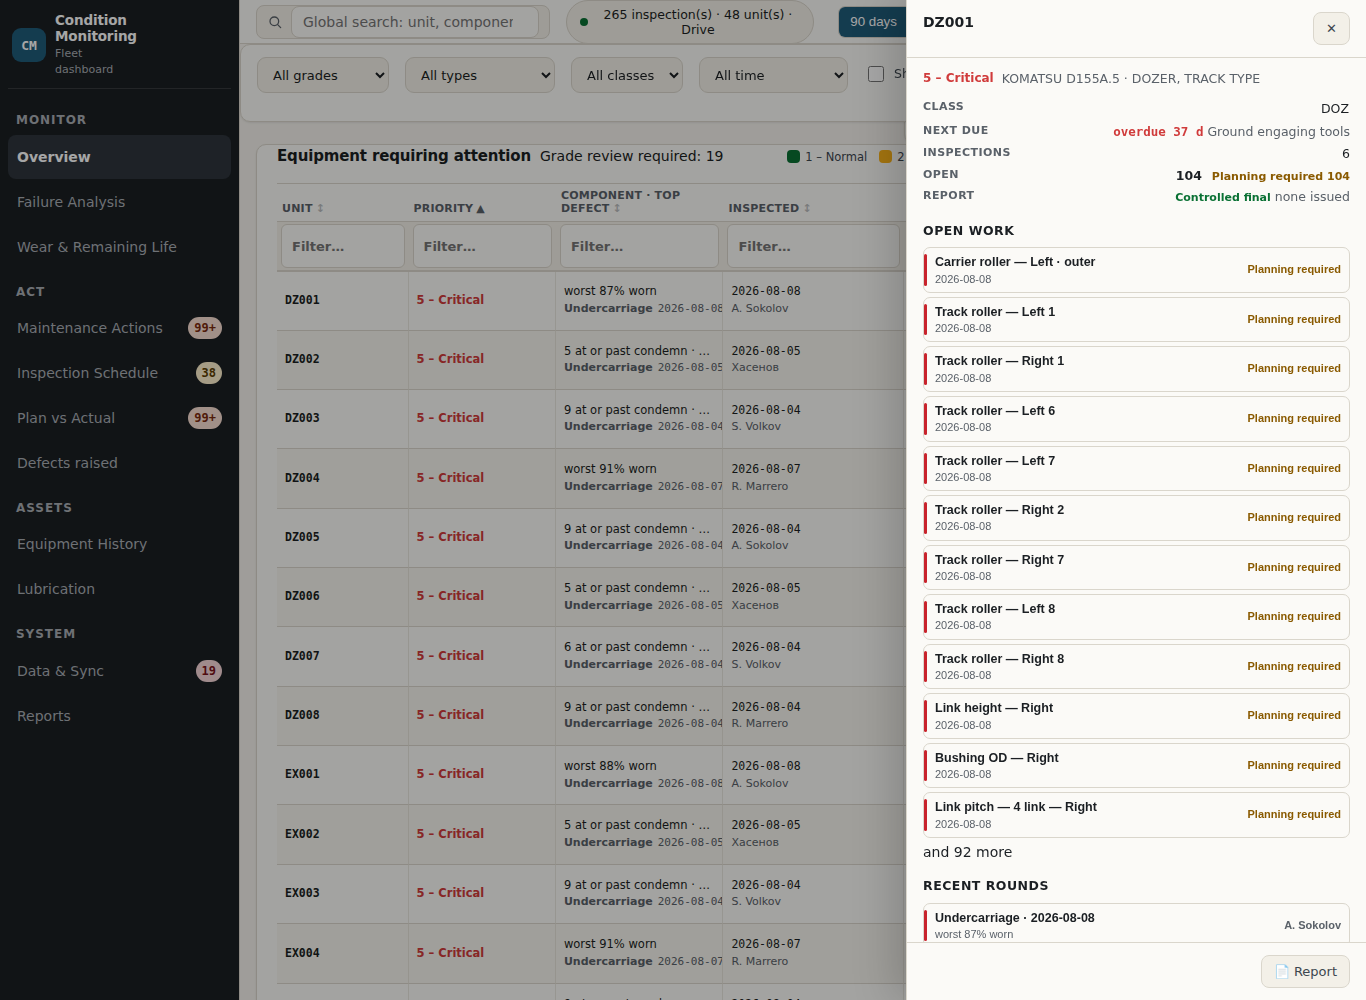
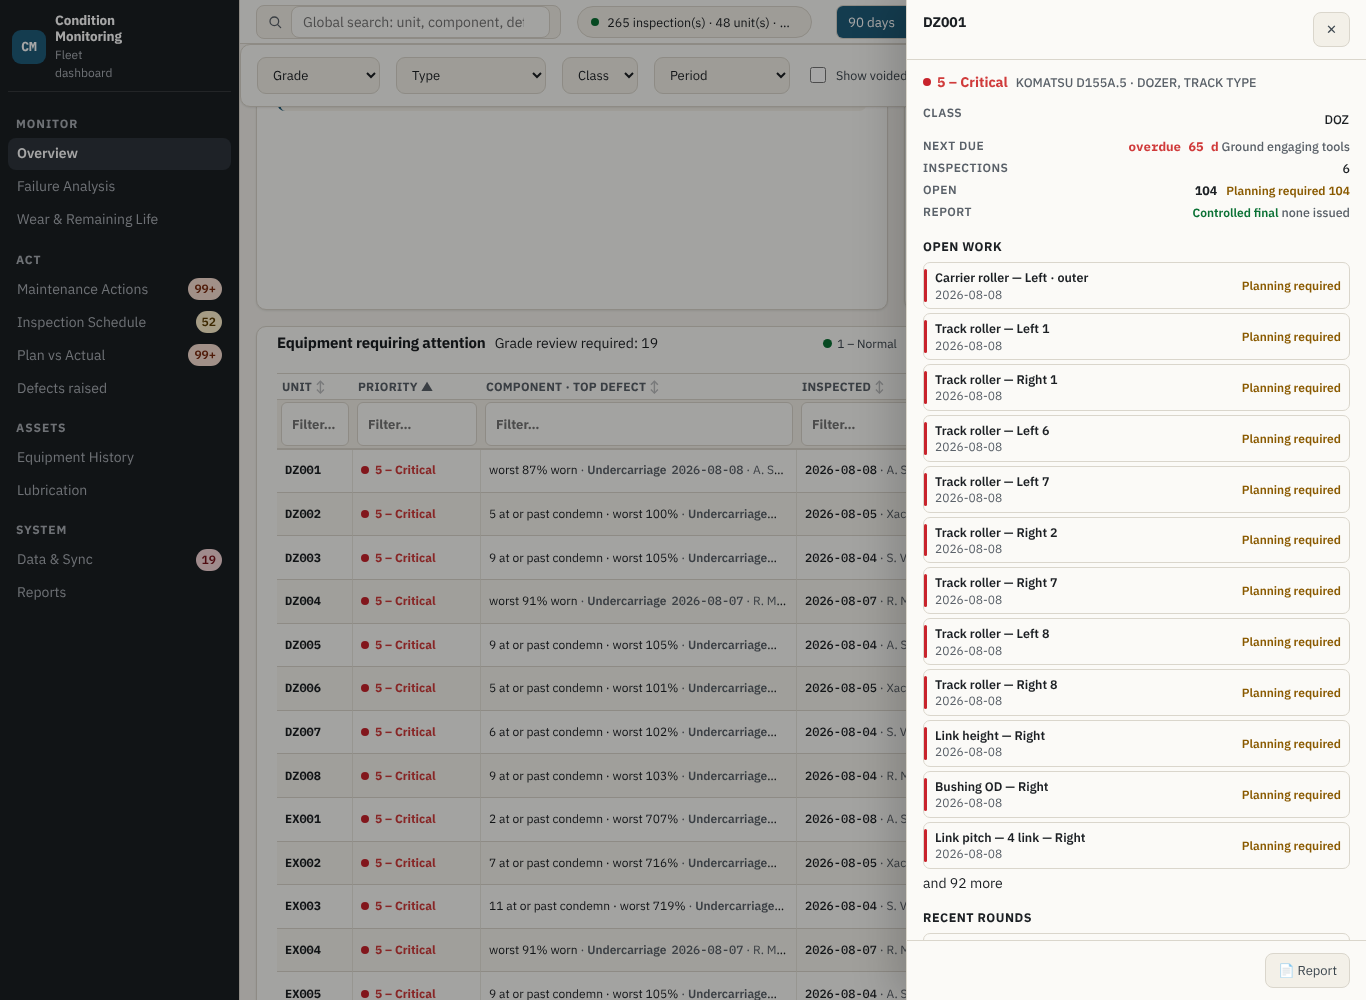
Bump BUILD 568 -> 569 (the grade-mix and Russian-label fixes landed after 568 was set)
Claude-Session: https://claude.ai/code/session_0126a8madH3cPf3ECGQtMoWM

diff --git a/dashboard-next/index.html b/dashboard-next/index.html
@@ -5112,23 +5112,23 @@ window.addEventListener("error", function (ev) { if (ev && ev.message) bad("unca
      builds, and the report it prints belongs to neither. The version tag makes
      each build a new URL, so the pair always arrives together. Bump it with
      mobile/index.html's BUILD; ver.cjs fails the sweep if they drift. -->
-<script src="../data/magnetic_plug.js?v=568"></script>
+<script src="../data/magnetic_plug.js?v=569"></script>
 <!-- 1C's planned PM service work orders (Start date plan / Start date
      actual), ingested by ingest/ingest_work_orders.py from WO.xlsx. Used
      only by the Plan vs Actual tab -- everything else on this page is
      unaffected if this file is stale or absent. -->
-<script src="../data/work_orders.js?v=568"></script>
-<script src="../mobile/hme.js?v=568"></script>
-<script src="../mobile/mp-fc.js?v=568"></script>
-<script src="../mobile/rtw.js?v=568"></script>
-<script src="../mobile/hme-cascade.js?v=568"></script>
-<script src="../mobile/temp-limits.js?v=568"></script>
+<script src="../data/work_orders.js?v=569"></script>
+<script src="../mobile/hme.js?v=569"></script>
+<script src="../mobile/mp-fc.js?v=569"></script>
+<script src="../mobile/rtw.js?v=569"></script>
+<script src="../mobile/hme-cascade.js?v=569"></script>
+<script src="../mobile/temp-limits.js?v=569"></script>
 <!-- The register and the wear reference, the same files the phones carry. A
      millimetre is judged here exactly as it was judged in the pit; the exported
      figures are a fallback for a machine this build does not know. -->
-<script src="../mobile/assets.js?v=568"></script>
-<script src="../mobile/normalize.js?v=568"></script>
-<script src="../mobile/terms.js?v=568"></script>
+<script src="../mobile/assets.js?v=569"></script>
+<script src="../mobile/normalize.js?v=569"></script>
+<script src="../mobile/terms.js?v=569"></script>
 <!-- BOOT-SAFE. The dictionary is a file, and a file can fail to arrive: a
      phone's very first load on a one-bar link got index.html and nothing
      else, the language table below then read TERMS.en at load, the main
@@ -5147,21 +5147,21 @@ if (!window.TERMS) {
   })();
 }
 </script>
-<script src="../mobile/grade.js?v=568"></script>
-<script src="../mobile/edits.js?v=568"></script>
-<script src="../mobile/due.js?v=568"></script>
-<script src="../mobile/wear.js?v=568"></script>
-<script src="../mobile/wear-map.js?v=568"></script>
-<script src="../mobile/lube.js?v=568"></script>
-<script src="../mobile/lube-overrides.js?v=568"></script>
-<script src="../mobile/lube2027.js?v=568"></script>
-<script src="../mobile/lube-tds.js?v=568"></script>
-<script src="../dashboard/lube-master.js?v=568"></script>
-<script src="../dashboard/wear-limits.js?v=568"></script>
+<script src="../mobile/grade.js?v=569"></script>
+<script src="../mobile/edits.js?v=569"></script>
+<script src="../mobile/due.js?v=569"></script>
+<script src="../mobile/wear.js?v=569"></script>
+<script src="../mobile/wear-map.js?v=569"></script>
+<script src="../mobile/lube.js?v=569"></script>
+<script src="../mobile/lube-overrides.js?v=569"></script>
+<script src="../mobile/lube2027.js?v=569"></script>
+<script src="../mobile/lube-tds.js?v=569"></script>
+<script src="../dashboard/lube-master.js?v=569"></script>
+<script src="../dashboard/wear-limits.js?v=569"></script>
 <!-- The same destinations file the phones read on first open, so one place
      configures both and a new browser needs nothing typed into it. -->
-<script src="../mobile/upload-defaults.js?v=568"></script>
-<script src="../mobile/machine-photos.js?v=568"></script>
+<script src="../mobile/upload-defaults.js?v=569"></script>
+<script src="../mobile/machine-photos.js?v=569"></script>
 <script>
 /* The artwork lives beside the app, and both modules build their URLs from
    this one base. Left as "machine/" it resolves against /dashboard/ and every
@@ -5170,17 +5170,17 @@ if (!window.TERMS) {
    on it. GET reads the same property, so this fixes both rounds. */
 if (window.MACHINE_PHOTOS) MACHINE_PHOTOS.BASE = "../mobile/machine/";
 </script>
-<script src="../mobile/machine-fig.js?v=568"></script>
-<script src="../mobile/get.js?v=568"></script>
-<script src="../mobile/points.js?v=568"></script>
-<script src="../mobile/uc-points.js?v=568"></script>
-<script src="../mobile/inspect-guide.js?v=568"></script>
-<script src="../mobile/get-figs.js?v=568"></script>
-<script src="../mobile/body-points.js?v=568"></script>
-<script src="../mobile/body-map.js?v=568"></script>
-<script src="../mobile/jspdf.umd.min.js?v=568"></script>
-<script src="../mobile/html2canvas.min.js?v=568"></script>
-<script src="../mobile/report-core.js?v=568"></script>
+<script src="../mobile/machine-fig.js?v=569"></script>
+<script src="../mobile/get.js?v=569"></script>
+<script src="../mobile/points.js?v=569"></script>
+<script src="../mobile/uc-points.js?v=569"></script>
+<script src="../mobile/inspect-guide.js?v=569"></script>
+<script src="../mobile/get-figs.js?v=569"></script>
+<script src="../mobile/body-points.js?v=569"></script>
+<script src="../mobile/body-map.js?v=569"></script>
+<script src="../mobile/jspdf.umd.min.js?v=569"></script>
+<script src="../mobile/html2canvas.min.js?v=569"></script>
+<script src="../mobile/report-core.js?v=569"></script>
 <script>
 const $=(id)=>document.getElementById(id);
 /* ---- settings handed over in the link ----
@@ -21663,10 +21663,10 @@ document.querySelector(".lang").addEventListener("click",e=>{
   setTimeout(()=>{ if(!RECS.length && !drvOn()) openData(); }, 300);
 })();
 </script>
-<script src="../dashboard/drive.js?v=568"></script>
-<script src="../dashboard/sync-adapter.js?v=568"></script>
-<script src="../dashboard/report.js?v=568"></script>
-<script src="../dashboard/reliability.js?v=568"></script>
+<script src="../dashboard/drive.js?v=569"></script>
+<script src="../dashboard/sync-adapter.js?v=569"></script>
+<script src="../dashboard/report.js?v=569"></script>
+<script src="../dashboard/reliability.js?v=569"></script>
 <script>
 /* THE CLOSED FILTER SAYS WHAT IS CHOSEN. A dropdown narrower than its option
    text ellipsises ("All t…", audit of 2026-10-01). Between 1331 and 1500 px

diff --git a/dashboard/index.html b/dashboard/index.html
@@ -4059,23 +4059,23 @@ window.addEventListener("error", function (ev) { if (ev && ev.message) bad("unca
      builds, and the report it prints belongs to neither. The version tag makes
      each build a new URL, so the pair always arrives together. Bump it with
      mobile/index.html's BUILD; ver.cjs fails the sweep if they drift. -->
-<script src="../data/magnetic_plug.js?v=568"></script>
+<script src="../data/magnetic_plug.js?v=569"></script>
 <!-- 1C's planned PM service work orders (Start date plan / Start date
      actual), ingested by ingest/ingest_work_orders.py from WO.xlsx. Used
      only by the Plan vs Actual tab -- everything else on this page is
      unaffected if this file is stale or absent. -->
-<script src="../data/work_orders.js?v=568"></script>
-<script src="../mobile/hme.js?v=568"></script>
-<script src="../mobile/mp-fc.js?v=568"></script>
-<script src="../mobile/rtw.js?v=568"></script>
-<script src="../mobile/hme-cascade.js?v=568"></script>
-<script src="../mobile/temp-limits.js?v=568"></script>
+<script src="../data/work_orders.js?v=569"></script>
+<script src="../mobile/hme.js?v=569"></script>
+<script src="../mobile/mp-fc.js?v=569"></script>
+<script src="../mobile/rtw.js?v=569"></script>
+<script src="../mobile/hme-cascade.js?v=569"></script>
+<script src="../mobile/temp-limits.js?v=569"></script>
 <!-- The register and the wear reference, the same files the phones carry. A
      millimetre is judged here exactly as it was judged in the pit; the exported
      figures are a fallback for a machine this build does not know. -->
-<script src="../mobile/assets.js?v=568"></script>
-<script src="../mobile/normalize.js?v=568"></script>
-<script src="../mobile/terms.js?v=568"></script>
+<script src="../mobile/assets.js?v=569"></script>
+<script src="../mobile/normalize.js?v=569"></script>
+<script src="../mobile/terms.js?v=569"></script>
 <!-- BOOT-SAFE. The dictionary is a file, and a file can fail to arrive: a
      phone's very first load on a one-bar link got index.html and nothing
      else, the language table below then read TERMS.en at load, the main
@@ -4094,21 +4094,21 @@ if (!window.TERMS) {
   })();
 }
 </script>
-<script src="../mobile/grade.js?v=568"></script>
-<script src="../mobile/edits.js?v=568"></script>
-<script src="../mobile/due.js?v=568"></script>
-<script src="../mobile/wear.js?v=568"></script>
-<script src="../mobile/wear-map.js?v=568"></script>
-<script src="../mobile/lube.js?v=568"></script>
-<script src="../mobile/lube-overrides.js?v=568"></script>
-<script src="../mobile/lube2027.js?v=568"></script>
-<script src="../mobile/lube-tds.js?v=568"></script>
-<script src="lube-master.js?v=568"></script>
-<script src="wear-limits.js?v=568"></script>
+<script src="../mobile/grade.js?v=569"></script>
+<script src="../mobile/edits.js?v=569"></script>
+<script src="../mobile/due.js?v=569"></script>
+<script src="../mobile/wear.js?v=569"></script>
+<script src="../mobile/wear-map.js?v=569"></script>
+<script src="../mobile/lube.js?v=569"></script>
+<script src="../mobile/lube-overrides.js?v=569"></script>
+<script src="../mobile/lube2027.js?v=569"></script>
+<script src="../mobile/lube-tds.js?v=569"></script>
+<script src="lube-master.js?v=569"></script>
+<script src="wear-limits.js?v=569"></script>
 <!-- The same destinations file the phones read on first open, so one place
      configures both and a new browser needs nothing typed into it. -->
-<script src="../mobile/upload-defaults.js?v=568"></script>
-<script src="../mobile/machine-photos.js?v=568"></script>
+<script src="../mobile/upload-defaults.js?v=569"></script>
+<script src="../mobile/machine-photos.js?v=569"></script>
 <script>
 /* The artwork lives beside the app, and both modules build their URLs from
    this one base. Left as "machine/" it resolves against /dashboard/ and every
@@ -4117,17 +4117,17 @@ if (!window.TERMS) {
    on it. GET reads the same property, so this fixes both rounds. */
 if (window.MACHINE_PHOTOS) MACHINE_PHOTOS.BASE = "../mobile/machine/";
 </script>
-<script src="../mobile/machine-fig.js?v=568"></script>
-<script src="../mobile/get.js?v=568"></script>
-<script src="../mobile/points.js?v=568"></script>
-<script src="../mobile/uc-points.js?v=568"></script>
-<script src="../mobile/inspect-guide.js?v=568"></script>
-<script src="../mobile/get-figs.js?v=568"></script>
-<script src="../mobile/body-points.js?v=568"></script>
-<script src="../mobile/body-map.js?v=568"></script>
-<script src="../mobile/jspdf.umd.min.js?v=568"></script>
-<script src="../mobile/html2canvas.min.js?v=568"></script>
-<script src="../mobile/report-core.js?v=568"></script>
+<script src="../mobile/machine-fig.js?v=569"></script>
+<script src="../mobile/get.js?v=569"></script>
+<script src="../mobile/points.js?v=569"></script>
+<script src="../mobile/uc-points.js?v=569"></script>
+<script src="../mobile/inspect-guide.js?v=569"></script>
+<script src="../mobile/get-figs.js?v=569"></script>
+<script src="../mobile/body-points.js?v=569"></script>
+<script src="../mobile/body-map.js?v=569"></script>
+<script src="../mobile/jspdf.umd.min.js?v=569"></script>
+<script src="../mobile/html2canvas.min.js?v=569"></script>
+<script src="../mobile/report-core.js?v=569"></script>
 <script>
 const $=(id)=>document.getElementById(id);
 /* ---- settings handed over in the link ----
@@ -18900,10 +18900,10 @@ document.querySelector(".lang").addEventListener("click",e=>{
   setTimeout(()=>{ if(!RECS.length && !drvOn()) openData(); }, 300);
 })();
 </script>
-<script src="drive.js?v=568"></script>
-<script src="sync-adapter.js?v=568"></script>
-<script src="report.js?v=568"></script>
-<script src="reliability.js?v=568"></script>
+<script src="drive.js?v=569"></script>
+<script src="sync-adapter.js?v=569"></script>
+<script src="report.js?v=569"></script>
+<script src="reliability.js?v=569"></script>
 <script>
 /* THE CLOSED FILTER SAYS WHAT IS CHOSEN. A dropdown narrower than its option
    text ellipsises ("All t…", audit of 2026-10-01). Between 1331 and 1500 px

diff --git a/mobile/index.html b/mobile/index.html
@@ -8,15 +8,15 @@
 <meta name="apple-mobile-web-app-status-bar-style" content="black-translucent">
 <meta name="apple-mobile-web-app-title" content="Condition">
 <title>Condition Monitoring — Field Capture</title>
-<link rel="manifest" href="manifest.webmanifest?v=568">
+<link rel="manifest" href="manifest.webmanifest?v=569">
 <!-- iOS does not read the manifest for "Add to Home Screen". Without an
      apple-touch-icon it puts a screenshot of the page on the home screen,
      which is unrecognisable at icon size and looks like a bookmark rather
      than an app. Same file the manifest uses; iOS wants 180×180 and will
      scale 192 without complaint. -->
-<link rel="apple-touch-icon" href="icon-192.png?v=568">
-<link rel="icon" type="image/png" sizes="192x192" href="icon-192.png?v=568">
-<link rel="icon" type="image/png" sizes="512x512" href="icon-512.png?v=568">
+<link rel="apple-touch-icon" href="icon-192.png?v=569">
+<link rel="icon" type="image/png" sizes="192x192" href="icon-192.png?v=569">
+<link rel="icon" type="image/png" sizes="512x512" href="icon-512.png?v=569">
 <!--
   Truck Inspection — mobile CAPTURE app (offline-first) for NHL TR60 dump trucks.
   Three types via the dropdown: Magnetic Plug (MP) · Filter Cut (FC) · Inspection (INSP).
@@ -2943,16 +2943,16 @@ window.addEventListener("error", function (ev) {
   }
 })();
 </script>
-<script src="native.js?v=568"></script>
-<script src="upload-defaults.js?v=568"></script>
-<script src="hme.js?v=568"></script>
-<script src="mp-fc.js?v=568"></script>
-<script src="rtw.js?v=568"></script>
-<script src="hme-cascade.js?v=568"></script>
-<script src="assets.js?v=568"></script>
-<script src="temp-limits.js?v=568"></script>
-<script src="normalize.js?v=568"></script>
-<script src="terms.js?v=568"></script>
+<script src="native.js?v=569"></script>
+<script src="upload-defaults.js?v=569"></script>
+<script src="hme.js?v=569"></script>
+<script src="mp-fc.js?v=569"></script>
+<script src="rtw.js?v=569"></script>
+<script src="hme-cascade.js?v=569"></script>
+<script src="assets.js?v=569"></script>
+<script src="temp-limits.js?v=569"></script>
+<script src="normalize.js?v=569"></script>
+<script src="terms.js?v=569"></script>
 <!-- BOOT-SAFE. The dictionary is a file, and a file can fail to arrive: a
      phone's very first load on a one-bar link got index.html and nothing
      else, the language table below then read TERMS.en at load, the main
@@ -2971,25 +2971,25 @@ if (!window.TERMS) {
   })();
 }
 </script>
-<script src="grade.js?v=568"></script>
-<script src="edits.js?v=568"></script>
-<script src="due.js?v=568"></script>
-<script src="wear.js?v=568"></script>
-<script src="wear-figs.js?v=568"></script>
-<script src="wear-map.js?v=568"></script>
-<script src="machine-photos.js?v=568"></script>
-<script src="machine-fig.js?v=568"></script>
-<script src="get.js?v=568"></script>
-<script src="points.js?v=568"></script>
-<script src="uc-points.js?v=568"></script>
-<script src="inspect-guide.js?v=568"></script>
-<script src="get-figs.js?v=568"></script>
-<script src="body-points.js?v=568"></script>
-<script src="body-map.js?v=568"></script>
-<script src="lube.js?v=568"></script>
-<script src="lube-overrides.js?v=568"></script>
-<script src="lube2027.js?v=568"></script>
-<script src="report-core.js?v=568"></script>
+<script src="grade.js?v=569"></script>
+<script src="edits.js?v=569"></script>
+<script src="due.js?v=569"></script>
+<script src="wear.js?v=569"></script>
+<script src="wear-figs.js?v=569"></script>
+<script src="wear-map.js?v=569"></script>
+<script src="machine-photos.js?v=569"></script>
+<script src="machine-fig.js?v=569"></script>
+<script src="get.js?v=569"></script>
+<script src="points.js?v=569"></script>
+<script src="uc-points.js?v=569"></script>
+<script src="inspect-guide.js?v=569"></script>
+<script src="get-figs.js?v=569"></script>
+<script src="body-points.js?v=569"></script>
+<script src="body-map.js?v=569"></script>
+<script src="lube.js?v=569"></script>
+<script src="lube-overrides.js?v=569"></script>
+<script src="lube2027.js?v=569"></script>
+<script src="report-core.js?v=569"></script>
 <!-- jsQR, qrcode, jsPDF and html2canvas are fetched on the tap that needs
      them; see loadLib(). The service worker precaches all four at install,
      so that tap resolves from cache and works with no signal. -->
@@ -15365,7 +15365,7 @@ const DEST_IDS=["gas","mirror","pa","post"];
    same string for a phone set up from scratch; this one is what the one-time
    upgrade moves an existing phone to. */
 const FOLDER_DEFAULT="{TYPE}/{UNIT}/{YYYY-MM-DD}";
-const BUILD="568";
+const BUILD="569";
 /* Eight hundred and fifty kilobytes of the payload is a PDF engine, a QR reader
    and a QR writer. A round of measurements touches none of them, yet every cold
    start waited for all four before the first paint. Fetch them on the tap that

diff --git a/mobile/sw.js b/mobile/sw.js
@@ -36,7 +36,7 @@
        explains itself and offers a retry — because an honest offline page is
        recoverable and a browser error page is not. */
 
-const BUILD="568";
+const BUILD="569";
 const CACHE = "plug-capture-v" + BUILD;
 
 /* Without these the app is not an app: no page, no equipment register, no
